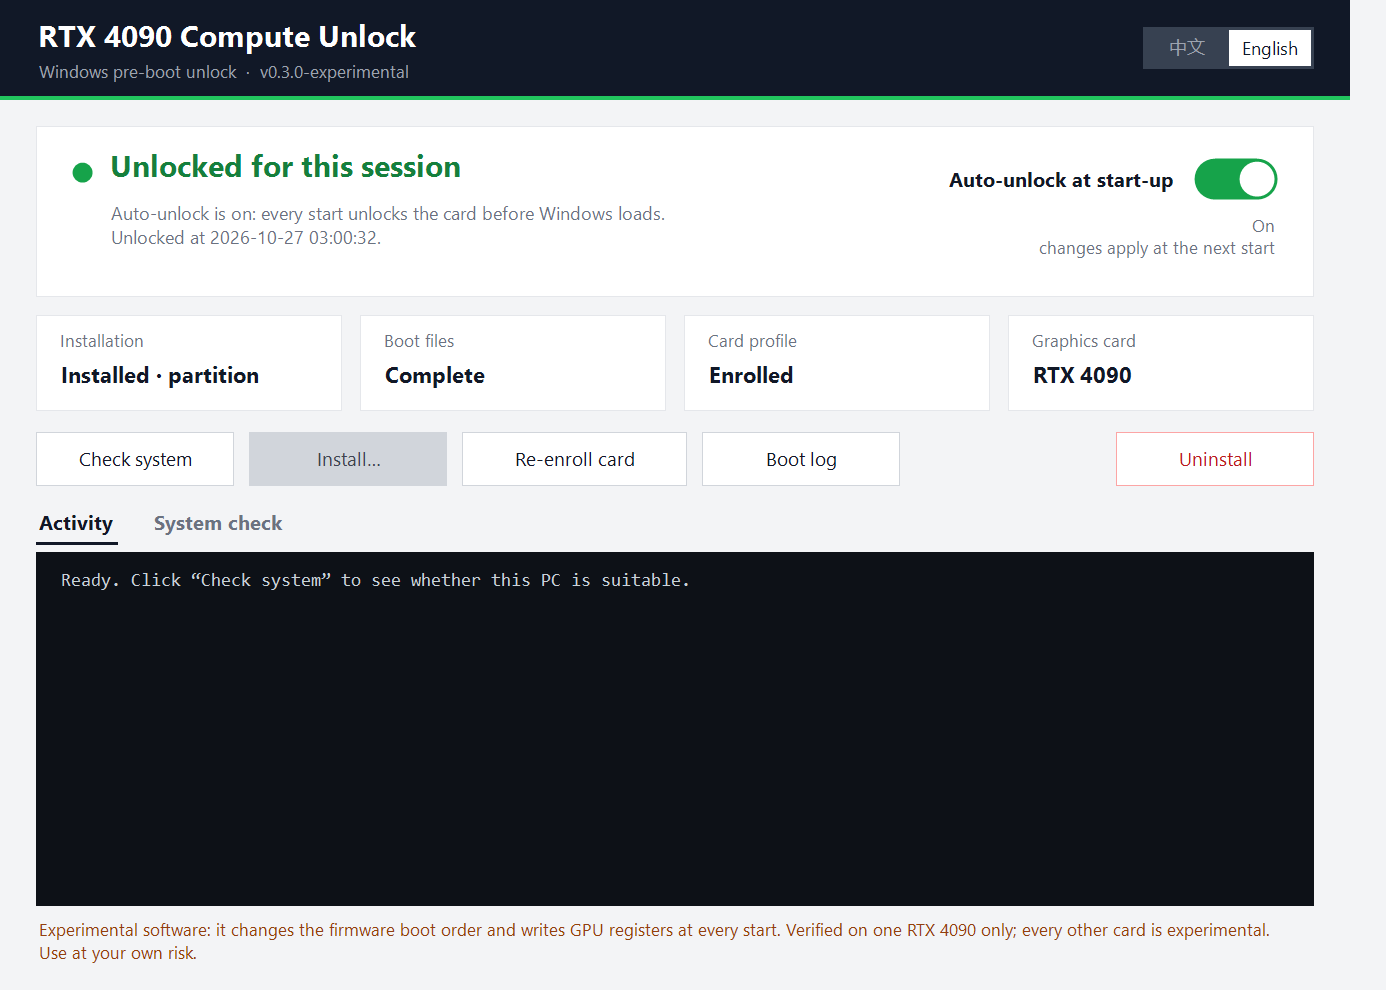
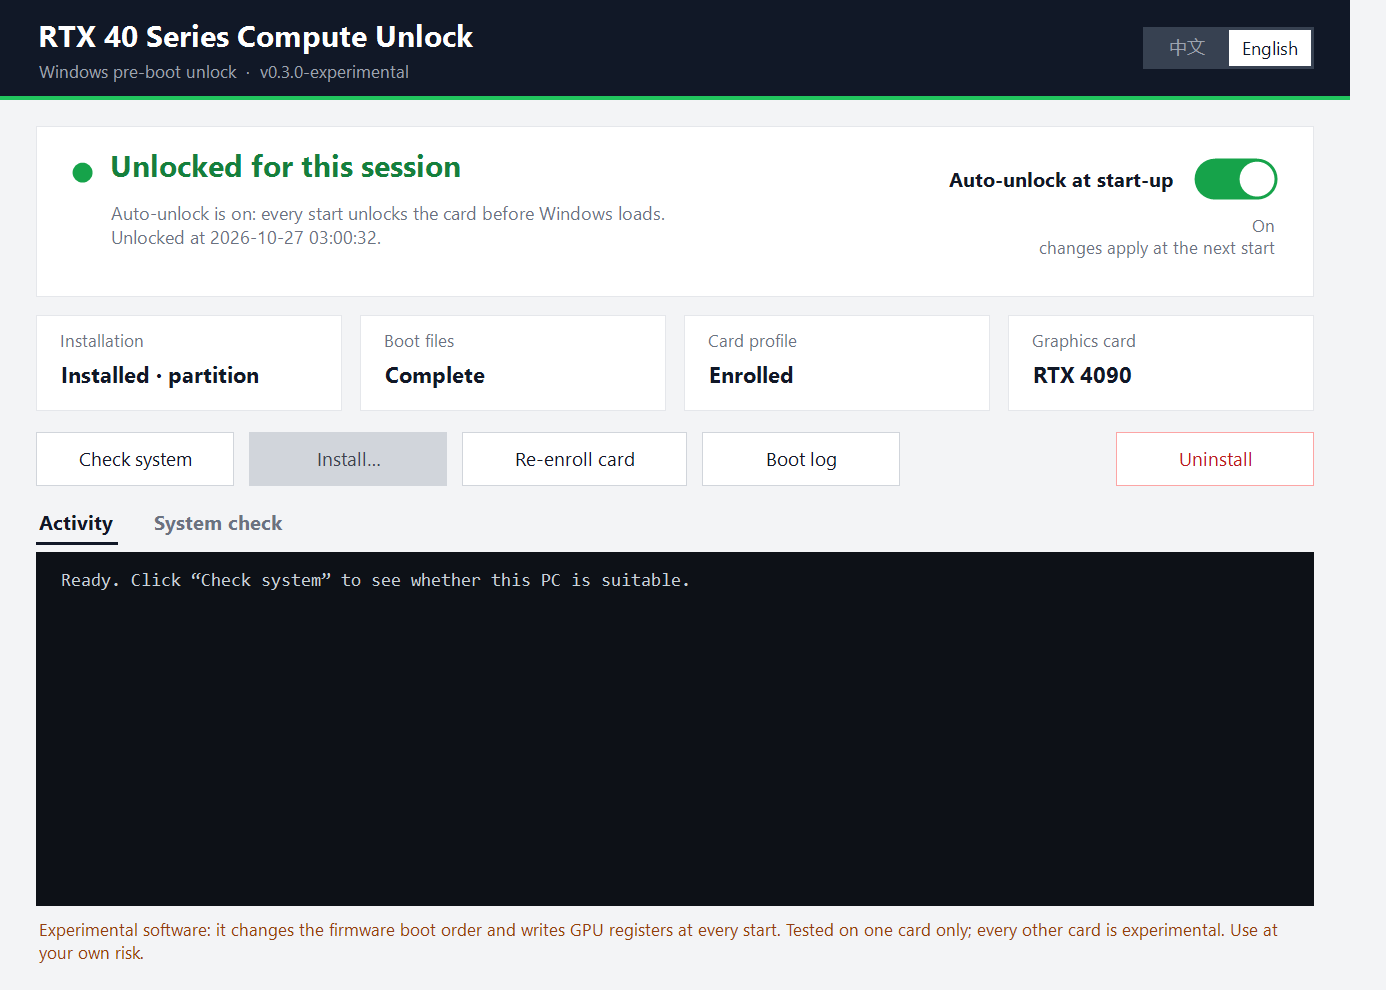
Present the project as GeForce RTX 40 series; drop the 4090 branding from the UI
- window title, header and footer no longer name a card; the check message
  points to the README for the model list
- README (en/zh), manual and installer README: say it is made for the RTX 40
  series, keep only "only the RTX 4090 has been tested" and the RTX 4090
  before/after benchmark; the per-card evidence table is gone
- screenshots retaken

Changed region(s): [[0.5895, 0.9091, 0.9307, 0.9697], [0.0931, 0.0303, 0.3413, 0.0606], [0.031, 0.9394, 0.1241, 0.9697]]

diff --git a/README.md b/README.md
@@ -2,15 +2,15 @@
 
 [中文说明](README.zh-CN.md)
 
-A one-click Windows installer that turns on the full-rate **FP32-accumulate tensor-core path** of a GeForce RTX 40-series card at every start, before Windows loads the NVIDIA driver. It comes with a small GUI and an on/off switch.
+A one-click Windows installer that turns on the full-rate **FP32-accumulate tensor-core path** of GeForce RTX 40-series cards at every start, before Windows loads the NVIDIA driver. It comes with a small GUI and an on/off switch.
 
-> **Experimental. Verified on one RTX 4090 only.** The RTX 4080, 4080 SUPER, 4070 Ti SUPER, 4070 Ti, 4070 SUPER and 4070 are supported as **experimental** cards that this project could not test; they go through a step-by-step trial first (see [Supported cards](#supported-cards)). At every start it changes the firmware boot order and writes GPU registers. Read [Risks](#risks) first. Use at your own risk.
+> **Experimental. Only the RTX 4090 has been tested.** The other RTX 40-series cards are supported but untested (see [Supported cards](#supported-cards)). At every start it changes the firmware boot order and writes GPU registers. Read [Risks](#risks) first. Use at your own risk.
 
 ![Main window](docs/images/main-en.png)
 
 ## What you get
 
-Matrix-math throughput on the test card (**RTX 4090** 24 GB, 450 W limit, PyTorch, single runs). The other cards have not been measured:
+Matrix-math throughput on the one card tested (**RTX 4090** 24 GB, 450 W limit, PyTorch, single runs). Other cards have not been measured:
 
 | Test | Locked (TFLOPS) | Unlocked | Change |
 |---|---|---|---|
@@ -29,36 +29,22 @@ Matrix-math throughput on the test card (**RTX 4090** 24 GB, 450 W limit, PyTorc
 1. **Install.** The installer creates a hidden 300 MiB FAT32 partition with no drive letter, or uses a FAT32 USB drive you choose. It copies a small UEFI program there and adds a firmware boot entry, `GPU Unlock (auto)`, ahead of Windows.
 2. **Firmware.** The NVIDIA firmware inputs (about 330 MB) are **downloaded and unpacked on your own PC**, with every file checked against a pinned SHA-256. This repository contains no NVIDIA firmware.
 3. **Every start.** The UEFI program checks that this is the expected card in a cold state. It then lets the card's signed firmware apply the setting, resets the card, hands the display back and starts Windows. The screen goes black briefly. If any check fails, it writes nothing to the card and Windows starts normally.
-4. **First start.** The program reads the card's identity read-only, saves it as `PROFILE.TXT`, and unlocks in the same start.
+4. **First start.** The program reads the card's identity read-only and saves it as `PROFILE.TXT`. On the tested card it then unlocks in the same start; other cards follow the careful path described under [Supported cards](#supported-cards).
 5. **Volatile.** The setting is lost at power-off and restart, so it is applied again at every start. The switch decides whether the *next* start unlocks, because the unlock has to happen before the NVIDIA driver loads.
 
 ## Supported cards
 
-| Tier | Cards | What happens |
-|---|---|---|
-| **Verified** | GeForce RTX 4090 (24 GB) | Tested on hardware by this project. The first start reads the card and unlocks it in the same start. |
-| **Experimental** | RTX 4080, 4080 SUPER, 4070 Ti SUPER, 4070 Ti, 4070 SUPER, 4070 | **Not tested by this project: no such card was available.** Support follows other people's reports (below). Nothing is written to the card until you arm one trial. |
-| Not supported | 4090 D, 48 GB modded cards, laptop GPUs, RTX 4060 series, 30- and 50-series, multi-GPU | The installer refuses. |
+Made for **GeForce RTX 40-series** cards: RTX 4090, 4080, 4080 SUPER, 4070 Ti SUPER, 4070 Ti, 4070 SUPER and 4070 (standard memory sizes, one card per PC). **Only the RTX 4090 has been tested.**
 
-What others have reported for the experimental cards (taken from those projects' READMEs and issues; not checked by this project):
-
-| Card | PCI ID | Reports |
-|---|---|---|
-| RTX 4070 Ti SUPER (AD103) | `10de:2705` | One card on Linux: FP16/BF16 with FP32 accumulate about 2× ([upstream write-up](https://github.com/brandonjank/gpu-unlock-ada)). The best-documented case. |
-| RTX 4080 (AD103) | `10de:2704` | A Windows UEFI tool for a modded 32 GB 4080 reports success ([TOTORONG](https://huggingface.co/TOTORONG/AD103_win_unlocker)). |
-| RTX 4070 Ti (AD104) | `10de:2782` | A manual Windows port for one MSI card ([Bizcott](https://github.com/Bizcott/latence.app-gpu-unlock-ada)). |
-| RTX 4070 SUPER (AD104) | `10de:2783` | A user reports a working Windows port in an upstream issue. |
-| RTX 4080 SUPER (AD103), RTX 4070 (AD104) | `10de:2702`, `10de:2786` | No report found. They share the chip family with the cards above. |
-
-**How an experimental card is handled** (all of it can be undone from the window):
+On every card other than the RTX 4090 the program is more careful (all of it can be undone from the window):
 
 1. **Read only.** After installing, the first start only reads the card and saves its profile. Nothing is written to the card.
 2. **One trial.** You click **Try unlock once**. The next start tries a single unlock. The permission is used up *before* the attempt, so if the screen stays black, nothing repeats.
 3. **Automatic only after it worked.** The switch can only be turned on after a trial was verified on your PC.
 
-![An experimental card after the first start](docs/images/experimental-state-en.png)
+Not supported: RTX 4090 D, 48 GB modded cards, laptop GPUs, RTX 4060 series, 30- and 50-series, multi-GPU. The installer refuses these.
 
-If you own one of these cards and try it, please [open an issue](../../issues/new/choose) with the result, successful or not. That is what moves a card from experimental to verified.
+If you try another card, please [open an issue](../../issues/new/choose) with the result, successful or not.
 
 ## Requirements
 
@@ -128,7 +114,7 @@ The full Chinese manual is in [docs/MANUAL-zh.md](docs/MANUAL-zh.md). It covers 
 ## Risks
 
 - **Black screen.** The boot program writes GPU registers at every start, with nobody watching. If the transaction fails midway, the program halts and asks you to power off, so the PC can hang on a black screen. Hold the power button, then use the boot menu to start *Windows Boot Manager* and turn the switch off. On an experimental card this can happen during the one trial; the trial permission is already used up, so nothing repeats.
-- **Other cards are guesses.** For every card except the 4090 the settings were derived from other people's reports. A wrong value is meant to make the program stop before writing (the card must match its chip id, memory size and cold-state registers), but this has not been exercised on those cards.
+- **Other cards are untested.** For every card except the RTX 4090 the settings come from upstream documentation, not from this project's tests. A wrong value is meant to make the program stop before writing (the card must match its chip id, memory size and cold-state registers), but this has not been exercised on those cards.
 - **Disk changes.** Partition mode shrinks one of your volumes. Back up first.
 - **Unsigned code.** The scripts and the EFI program are unsigned, so antivirus or SmartScreen may warn. You can build the EFI yourself and compare hashes; see [efi/README.md](efi/README.md).
 - **Legal.** This is not legal advice. NVIDIA's driver and firmware terms, anti-circumvention laws (for example 17 U.S.C. §1201) and export-control rules may apply where you live. Decide for yourself whether you may use this.

diff --git a/README.zh-CN.md b/README.zh-CN.md
@@ -4,13 +4,13 @@
 
 一个带图形界面和开关的 Windows 一键安装器。每次开机时，在 Windows 加载 NVIDIA 驱动**之前**，它会把 GeForce RTX 40 系显卡上被限速的 **FP32 累加张量核心**打开到满速。
 
-> **实验性软件，只在一块 RTX 4090 上验证过。** RTX 4080、4080 SUPER、4070 Ti SUPER、4070 Ti、4070 SUPER、4070 按**实验性**支持，本项目没有这些卡，无法测试；它们要先走分步试解锁（见[支持的显卡](#支持的显卡)）。它会修改固件启动顺序，并在每次开机时对显卡写寄存器。请先读[风险](#风险)，使用风险自负。
+> **实验性软件，只实测过 RTX 4090。** 其他 RTX 40 系显卡也支持，但没有测过（见[支持的显卡](#支持的显卡)）。它会修改固件启动顺序，并在每次开机时对显卡写寄存器。请先读[风险](#风险)，使用风险自负。
 
 ![主界面](docs/images/main-zh.png)
 
 ## 能得到什么
 
-测试卡的矩阵乘吞吐（**RTX 4090** 24 GB，功耗上限 450 W，PyTorch，单次测量），其他显卡没有测过：
+实测的那一块卡的矩阵乘吞吐（**RTX 4090** 24 GB，功耗上限 450 W，PyTorch，单次测量），其他显卡没有测过：
 
 | 测试 | 未解锁（TFLOPS） | 解锁后 | 变化 |
 |---|---|---|---|
@@ -29,36 +29,22 @@
 1. **安装**：在内部硬盘划一个 300 MiB、没有盘符的隐藏 FAT32 分区（也可以用你指定的 FAT32 U 盘），放进一个 UEFI 小程序，并在固件启动顺序里加一项 `GPU Unlock (auto)`，排在 Windows 前面。
 2. **固件文件**：约 330 MB 的 NVIDIA 固件输入**在你自己的电脑上下载并提取**，每个文件都和固定的 SHA-256 核对。本仓库不包含任何 NVIDIA 固件。
 3. **每次开机**：小程序先确认是预期的那张卡、处于冷态，然后让显卡里签过名的固件应用设置，复位显卡，把显示交还给固件，再启动 Windows。屏幕会短暂黑一下。任何一项检查没通过，就不写显卡，Windows 照常启动。
-4. **第一次开机**：程序会先只读地记下这张卡的身份（保存为 `PROFILE.TXT`），然后在同一次开机里解锁。
+4. **第一次开机**：程序会先只读地记下这张卡的身份（保存为 `PROFILE.TXT`）。实测过的那张卡随后在同一次开机里解锁；其他显卡走[支持的显卡](#支持的显卡)里的谨慎流程。
 5. **断电即失效**：设置在断电或重启后会丢失，所以每次开机都要重新应用。开关决定的是**下次开机**解不解锁，因为解锁必须在 NVIDIA 驱动加载之前完成。
 
 ## 支持的显卡
 
-| 级别 | 显卡 | 行为 |
-|---|---|---|
-| **已验证** | GeForce RTX 4090（24 GB） | 本项目在真机上测试过。第一次开机读取显卡信息，并在同一次开机里解锁。 |
-| **实验性** | RTX 4080、4080 SUPER、4070 Ti SUPER、4070 Ti、4070 SUPER、4070 | **本项目没有测试过：手头没有这些卡。** 支持依据别人的报告（见下）。在你手动开启一次试解锁之前，不会向显卡写任何内容。 |
-| 不支持 | 4090 D、48 GB 改版卡、笔记本显卡、RTX 4060 系列、30 系和 50 系、多显卡 | 安装器拒绝安装。 |
+面向 **GeForce RTX 40 系**显卡：RTX 4090、4080、4080 SUPER、4070 Ti SUPER、4070 Ti、4070 SUPER、4070（标准显存容量，每台电脑一张）。**只实测过 RTX 4090。**
 
-别人对实验性显卡的报告（取自对方项目的 README 和 issue，本项目没有核实过）：
-
-| 显卡 | PCI ID | 报告 |
-|---|---|---|
-| RTX 4070 Ti SUPER（AD103） | `10de:2705` | Linux 上一块卡：FP16/BF16 配 FP32 累加约 2 倍（[上游文档](https://github.com/brandonjank/gpu-unlock-ada)）。这是记录最完整的一例。 |
-| RTX 4080（AD103） | `10de:2704` | 一个针对 32 GB 改版 4080 的 Windows UEFI 工具报告成功（[TOTORONG](https://huggingface.co/TOTORONG/AD103_win_unlocker)）。 |
-| RTX 4070 Ti（AD104） | `10de:2782` | 一块微星卡的手动 Windows 移植（[Bizcott](https://github.com/Bizcott/latence.app-gpu-unlock-ada)）。 |
-| RTX 4070 SUPER（AD104） | `10de:2783` | 上游 issue 里有用户报告 Windows 移植可用。 |
-| RTX 4080 SUPER（AD103）、RTX 4070（AD104） | `10de:2702`、`10de:2786` | 没有找到报告，只是和上面的卡属于同一芯片家族。 |
-
-**实验性显卡的处理方式**（每一步都能在窗口里撤销）：
+除 RTX 4090 以外的显卡，程序会更谨慎（每一步都能在窗口里撤销）：
 
 1. **只读。** 安装后第一次开机只读取显卡信息并保存，不向显卡写任何内容。
 2. **试解锁一次。** 你点"试解锁一次"，下一次开机才尝试解锁一次。许可在**尝试之前**就被用掉，所以即使屏幕一直黑屏，也不会重复。
 3. **成功之后才能自动。** 只有在你这台电脑上验证过一次试解锁成功，开关才能打开。
 
-![实验性显卡第一次开机之后的窗口（示意，英文界面）](docs/images/experimental-state-en.png)
+不支持：RTX 4090 D、48 GB 改版卡、笔记本显卡、RTX 4060 系列、30 系和 50 系、多显卡。安装器会拒绝安装。
 
-如果你有这些卡并且试过了，无论成败，请[提一个 issue](../../issues/new/choose) 告诉我们结果，这是实验性显卡变成已验证的依据。
+如果你试了其他显卡，无论成败，请[提一个 issue](../../issues/new/choose) 告诉我们结果。
 
 ## 适用条件
 
@@ -128,7 +114,7 @@ powershell -ExecutionPolicy Bypass -File core.ps1 install -AcceptExperimental   
 ## 风险
 
 - **可能黑屏**：每次开机都会对显卡写寄存器，没有人在旁边看着。事务中途失败时，程序会停住并要求断电，开机会卡在黑屏。这时长按电源键关机，再开机从启动菜单进 Windows Boot Manager，然后在窗口里把开关关掉。实验性显卡在那一次试解锁里也可能这样；试解锁的许可已经用掉，不会重复。
-- **其他显卡的参数是推测的**：除 4090 外，所有卡的设置都来自别人的报告。参数不对时，程序应在写入之前停下（显卡必须和记录的芯片编号、显存大小和冷态寄存器一致），但这一点没有在那些卡上跑过。
+- **其他显卡没有测过**：除 RTX 4090 外，所有卡的设置都来自上游文档，不是本项目测出来的。参数不对时，程序应在写入之前停下（显卡必须和记录的芯片编号、显存大小和冷态寄存器一致），但这一点没有在那些卡上跑过。
 - **会改动硬盘**：分区模式会缩小你的一个卷，请先备份。
 - **没有签名**：脚本和 EFI 程序都没有签名，杀毒软件或 SmartScreen 可能报警。你可以自己从源码构建 EFI 并比对哈希，见 [efi/README.md](efi/README.md)。
 - **法律**：以下不是法律意见。NVIDIA 驱动和固件的许可条款、反规避法规（例如美国 17 U.S.C. §1201）、出口管制规则可能适用于你所在的地区，请自行判断能否使用。

diff --git a/docs/MANUAL-zh.md b/docs/MANUAL-zh.md
@@ -1,6 +1,6 @@
-# RTX 4090 算力解锁（Windows）使用说明书
+# GeForce RTX 40 算力解锁（Windows）使用说明书
 
-版本：安装器 0.3.0-experimental ｜ 状态：**实验性软件，只在一块 RTX 4090 上验证过** ｜ 更新：2026-10-27
+版本：安装器 0.3.0-experimental ｜ 状态：**实验性软件，只实测过 RTX 4090** ｜ 更新：2026-10-27
 
 > 先读第 4 节"风险与须知"。这个工具会修改固件启动顺序，并在每次开机时对显卡写寄存器。使用风险自负。
 
@@ -8,7 +8,7 @@
 
 ## 1. 它是什么，能得到什么
 
-**一句话**：把 GeForce RTX 4090（24 GB）上被限制为半速的"FP32 累加张量核心"解锁到满速。解锁在每次开机时自动完成，你不需要按任何键。
+**一句话**：把 GeForce RTX 40 系显卡上被限制为半速的"FP32 累加张量核心"解锁到满速（只实测过 RTX 4090，下面的效果数据都来自它）。解锁在每次开机时自动完成，你不需要按任何键。
 
 **它不是**驱动、不是 VBIOS 刷机、不改熔丝，也不超频。它只是在 Windows 启动之前运行一个很小的程序，应用设置后再把控制权交给 Windows。设置在**断电或重启后会丢失**，所以每次开机都会重新应用。
 
